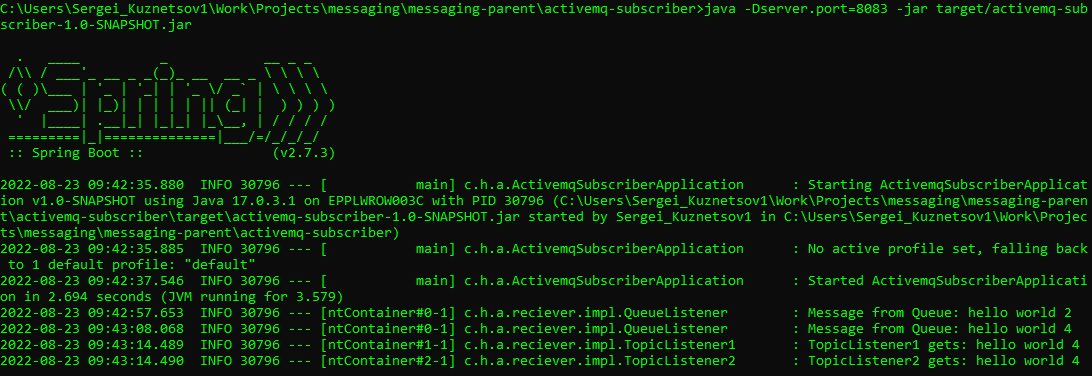
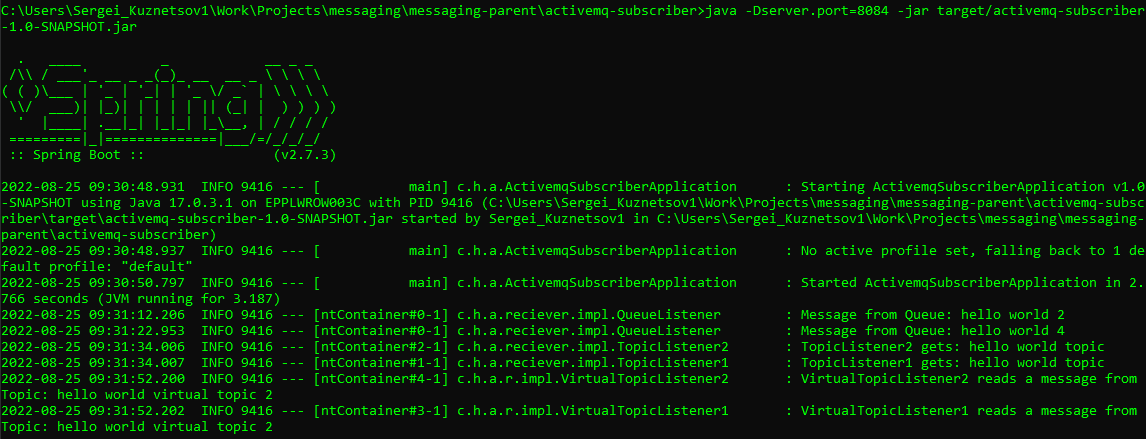
+ scaling with virtual topics

Changed region(s): [[0.0, 0.0, 1.0, 1.0]]

diff --git a/activemq-subscriber/src/main/java/com/hepexta/activemqsubscribe/config/JMSConfiguration.java b/activemq-subscriber/src/main/java/com/hepexta/activemqsubscribe/config/JMSConfiguration.java
@@ -7,6 +7,7 @@ import org.springframework.context.annotation.Bean;
 import org.springframework.context.annotation.Configuration;
 import org.springframework.jms.config.DefaultJmsListenerContainerFactory;
 import org.springframework.jms.config.JmsListenerContainerFactory;
+import org.springframework.jms.connection.SingleConnectionFactory;
 import org.springframework.jms.listener.DefaultMessageListenerContainer;
 
 import javax.jms.ConnectionFactory;
@@ -41,6 +42,15 @@ public class JMSConfiguration {
         DefaultJmsListenerContainerFactory containerFactory = new DefaultJmsListenerContainerFactory();
         containerFactory.setPubSubDomain(true);
         containerFactory.setConnectionFactory(activeMQConnectionFactory());
+        return containerFactory;
+    }
+
+    @Bean
+    public JmsListenerContainerFactory<DefaultMessageListenerContainer> virtualTopicContainerFactory(SingleConnectionFactory factory, DefaultJmsListenerContainerFactoryConfigurer configurer) {
+        DefaultJmsListenerContainerFactory containerFactory = new DefaultJmsListenerContainerFactory();
+        containerFactory.setPubSubDomain(true);
+        containerFactory.setConnectionFactory(factory);
+        configurer.configure(containerFactory, factory);
         return containerFactory;
     }
 }

diff --git a/activemq-publisher/src/main/java/com/hepexta/activemqpublisher/publisher/impl/PublisherImpl.java b/activemq-publisher/src/main/java/com/hepexta/activemqpublisher/publisher/impl/PublisherImpl.java
@@ -27,6 +27,9 @@ public class PublisherImpl implements Publisher {
     @Value("${service.activemq.durableTopicName}")
     private String durableTopicName;
 
+    @Value("${service.activemq.virtualTopicName}")
+    private String virtualTopicName;
+
     @Override
     public void publishQueue(String message) {
         queueTemplate.convertAndSend(queueName, message);
@@ -40,5 +43,10 @@ public class PublisherImpl implements Publisher {
     @Override
     public void publishDurableTopic(String message) {
         topicJmsTemplate.convertAndSend(durableTopicName, message);
+    }
+
+    @Override
+    public void publishVirtualTopic(String message) {
+        topicJmsTemplate.convertAndSend(virtualTopicName, message);
     }
 }

diff --git a/activemq-publisher/src/main/java/com/hepexta/activemqpublisher/controller/PublisherRestController.java b/activemq-publisher/src/main/java/com/hepexta/activemqpublisher/controller/PublisherRestController.java
@@ -41,4 +41,12 @@ public class PublisherRestController {
         publisher.publishDurableTopic(message.getMessage());
         return new ResponseEntity<>("POST Response", HttpStatus.OK);
     }
+
+    @PostMapping(value = "/addToVirtualTopic", consumes = {APPLICATION_JSON_VALUE})
+    @ResponseStatus(HttpStatus.CREATED)
+    public ResponseEntity<String> addToVirtualTopic(@RequestBody PublishRequest message) {
+        log.info("Publish a message to virtual topic {}", message.getMessage());
+        publisher.publishVirtualTopic(message.getMessage());
+        return new ResponseEntity<>("POST Response", HttpStatus.OK);
+    }
 }

diff --git a/activemq-subscriber/src/main/java/com/hepexta/activemqsubscribe/reciever/impl/VirtualTopicListener1.java b/activemq-subscriber/src/main/java/com/hepexta/activemqsubscribe/reciever/impl/VirtualTopicListener1.java
@@ -1,0 +1,16 @@
+package com.hepexta.activemqsubscribe.reciever.impl;
+
+import com.hepexta.activemqsubscribe.reciever.Listener;
+import lombok.extern.slf4j.Slf4j;
+import org.springframework.jms.annotation.JmsListener;
+import org.springframework.stereotype.Component;
+
+@Component
+@Slf4j
+public class VirtualTopicListener1 implements Listener {
+
+    @JmsListener(destination = "${service.activemq.virtualTopicName1}", containerFactory = "virtualTopicContainerFactory")
+    public void listen(String message) {
+        log.info("VirtualTopicListener1 reads a message from Topic: {}", message);
+    }
+}

diff --git a/activemq-subscriber/src/main/java/com/hepexta/activemqsubscribe/reciever/impl/VirtualTopicListener2.java b/activemq-subscriber/src/main/java/com/hepexta/activemqsubscribe/reciever/impl/VirtualTopicListener2.java
@@ -1,0 +1,16 @@
+package com.hepexta.activemqsubscribe.reciever.impl;
+
+import com.hepexta.activemqsubscribe.reciever.Listener;
+import lombok.extern.slf4j.Slf4j;
+import org.springframework.jms.annotation.JmsListener;
+import org.springframework.stereotype.Component;
+
+@Component
+@Slf4j
+public class VirtualTopicListener2 implements Listener {
+
+    @JmsListener(destination = "${service.activemq.virtualTopicName2}", containerFactory = "virtualTopicContainerFactory")
+    public void listen(String message) {
+        log.info("VirtualTopicListener2 reads a message from Topic: {}", message);
+    }
+}

diff --git a/activemq-publisher/src/main/java/com/hepexta/activemqpublisher/publisher/Publisher.java b/activemq-publisher/src/main/java/com/hepexta/activemqpublisher/publisher/Publisher.java
@@ -4,4 +4,5 @@ public interface Publisher {
     void publishQueue(String message);
     void publishTopic(String message);
     void publishDurableTopic(String message);
+    void publishVirtualTopic(String message);
 }

diff --git a/README.md b/README.md
@@ -56,7 +56,11 @@ Post a message to the topic
 
 `POST http://localhost:8081/messages/addToQueue {"message": "hello world 4"}`
 
-`POST http://localhost:8081/messages/addToTopic {"message": "hello world"}`
+`POST http://localhost:8081/messages/addToTopic {"message": "hello world topic"}`
+
+`POST http://localhost:8081/messages/addToVirtualTopic {"message": "hello world virtual topic 1"}`
+
+`POST http://localhost:8081/messages/addToVirtualTopic {"message": "hello world virtual topic 2"}`
 
 Messages for queue consumed in Round Robin, messages for topic consumed by both instances.
 
